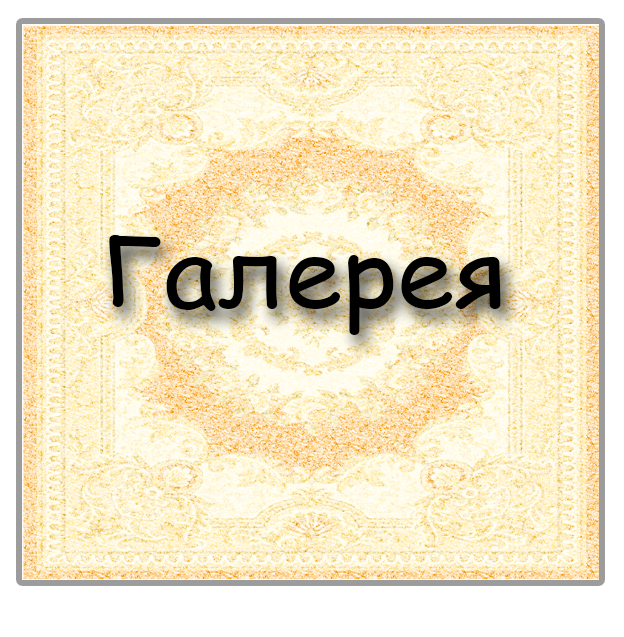
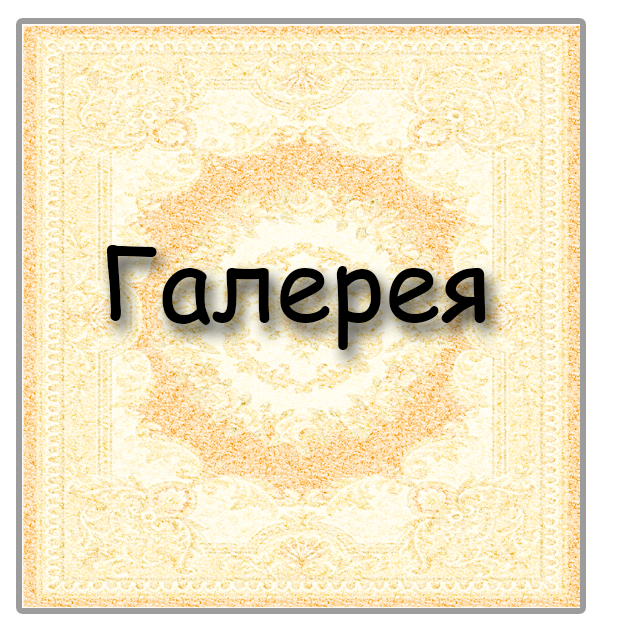
Add files via upload

diff --git a/index.html b/index.html
@@ -3,27 +3,34 @@
 		<TITLE>Персидские ковры</TITLE>
 	</HEAD>
 	<STYLE>
-		body{background-image: url("1.png"); background-size: 100%; background-repeat: no-repeat; overflow-y: hidden;}
-		html{overflow-y: hidden;}
-		a.returntext{background: url("text.png"); display: block; width: 700px; height: 130px;}
+		body{background-image: url("1.png"); background-size: 100%; background-repeat: no-repeat;}
+		table{border-collapse: collapse; border: 1px; position: relative; top: 30%}
+		td{border: 1px}
+		a.returntext{background: url("text.png"); display: block; width: 38%; height: 14%;position: absolute;}
 		a.returntext:hover{background: url("text2.png");}
-		a.history{background: url("history1.png"); display: block;width: 615px; height: 300px; position: absolute; top: 320px}
+		a.history{background: url("history1.png"); display: block;width: 615px; height: 300px; position: relative;}
 		a.history:hover{background: url("history2.png");}
-		a.uhod{background: url("uhod1.png"); display: block;width: 615px; height: 300px; position: absolute; top: 610px;}
+		a.uhod{background: url("uhod1.png"); display: block;width: 615px; height: 300px; position: relative;}
 		a.uhod:hover{background: url("uhod2.png");}
-		a.osob{background: url("osob1.png"); display: block;width: 615px; height: 300px; position: absolute; left: 610px;top: 610px}
+		a.osob{background: url("osob1.png"); display: block;width: 615px; height: 300px; position: relative;}
 		a.osob:hover{background: url("osob2.png");}
-		a.gde{background: url("gde1.png"); display: block;width: 615px; height: 300px; position: absolute; left: 610px; top: 320px}
+		a.gde{background: url("gde1.png"); display: block;width: 615px; height: 300px; position: relative;}
 		a.gde:hover{background: url("gde2.png");}
-		a.gal{background: url("gal1.png"); display: block;width: 615px; height: 630px; position: absolute; left: 1210px; top: 317px}
+		a.gal{background: url("gal1.png"); display: block;width: 615px; height: 630px; position: relative;}
 		a.gal:hover{background: url("gal2.png");}
 	</STYLE>	
 	<BODY>
 		<pre><a href="index.html" class="returntext"></a></pre>
-		<pre><a href="history.html" class="history"></a></pre>
-		<pre><a href="uhod.html" class="uhod"></a></pre>
-		<pre><a href="index.html" class="gde"></a></pre>
-		<pre><a href="index.html" class="osob"></a></pre>
-		<pre><a href="index.html" class="gal"></a></pre>
+		<TABLE>
+			<TR>
+				<TD><a href="history.html" class="history"></a></TD>
+				<TD><a href="index.html" class="gde"></a></TD>
+				<TD rowspan="2"><a href="index.html" class="gal"></a></TD>
+			</TR>
+			<TR>
+				<TD><a href="uhod.html" class="uhod"></a></TD>
+				<TD><a href="index.html" class="osob"></a></TD>
+			</TR>
+		</TABLE>
 	</BODY>
 </HTML>
